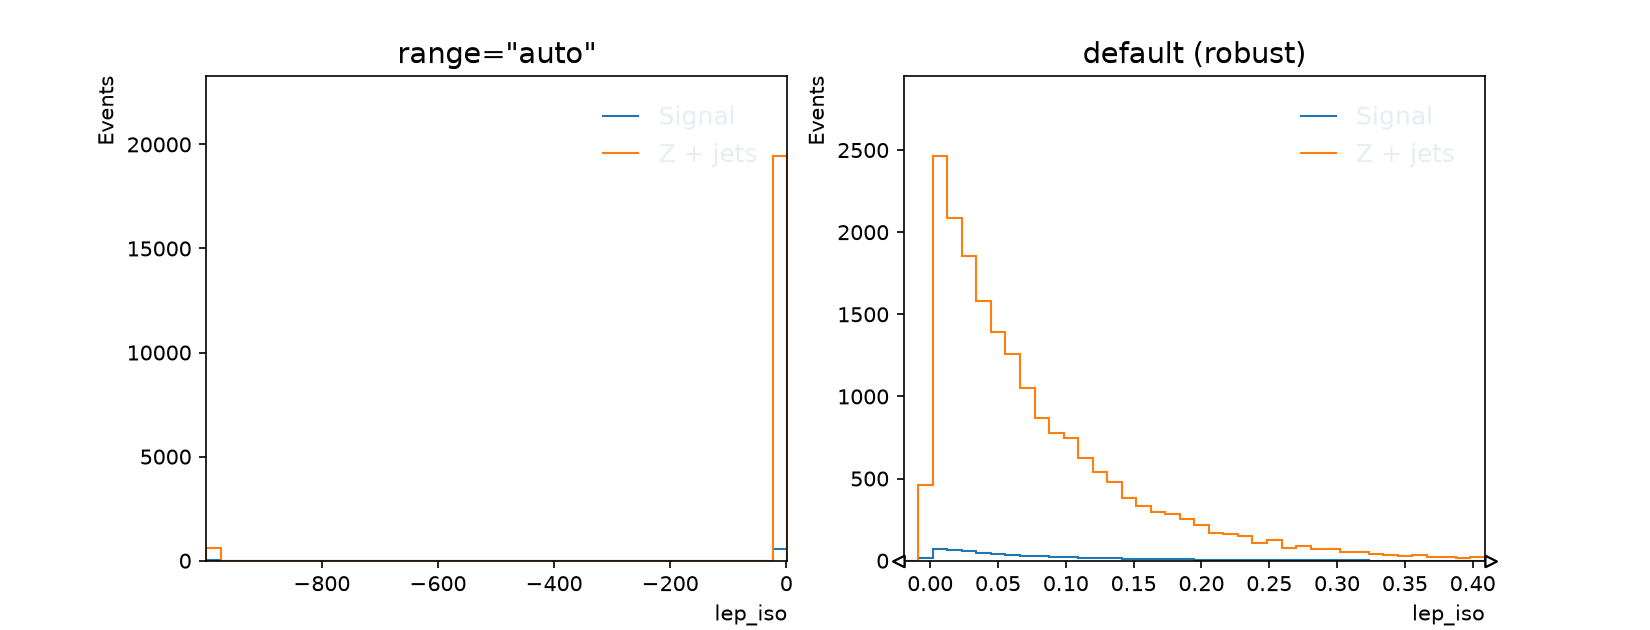
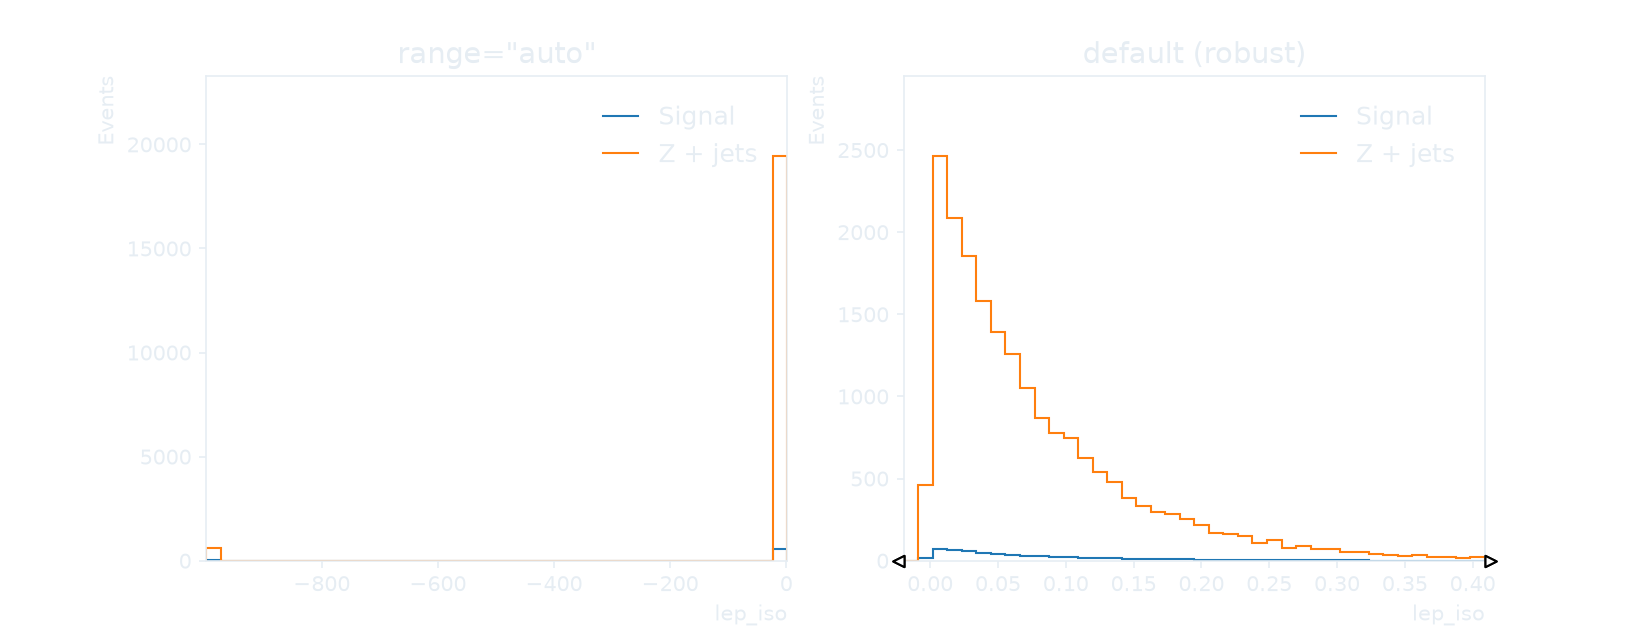
Fixes

diff --git a/tests/test_api.py b/tests/test_api.py
@@ -324,12 +324,12 @@ class TestPlot:
         kwargs: dict[str, Any] = {"observed": observed, "bins": (20, 0, 200), "ratio": True}
         with rf.dark_theme():
             dark = rf.plot(mc, "MET", style="ATLAS", stack=True, **kwargs)
-            classic = rf.plot(mc, "MET", style="classic", **kwargs)  # sets savefig.facecolor
         ink = to_rgba(rf.plotting.DARK_THEME["text.color"])
         assert self._marker_colors(dark) == {ink}
         assert dark.fig.get_facecolor()[3] == 0.0  # transparent despite ATLAS's white
         assert to_rgba(dark.ax.xaxis.label.get_color()) == ink
-        (saved,) = classic.save(tmp_path / "classic.png")
+        with plt.rc_context({"savefig.facecolor": "white"}):  # global state at save time
+            (saved,) = dark.save(tmp_path / "dark.png")
         assert plt.imread(saved)[0, :, 3].max() == 0.0  # the top row is background only
         light = rf.plot(mc, "MET", style="ATLAS", stack=True, **kwargs)
         assert self._marker_colors(light) == {to_rgba("black")}

diff --git a/tests/test_gallery.py b/tests/test_gallery.py
@@ -21,10 +21,12 @@ import contextlib
 import importlib.util
 import re
 import sys
+from collections.abc import Iterator
 from pathlib import Path
 from types import ModuleType
 from typing import Any
 
+import matplotlib.pyplot as plt
 import pytest
 from matplotlib.figure import Figure
 
@@ -57,7 +59,16 @@ def load_gallery(name: str = "rootfig_gallery") -> ModuleType:
 gallery = load_gallery()
 EXAMPLES = list(gallery.EXAMPLES)
 SAVEFIG = {"dpi": 150}  # as Plot.save: constrained layout, no cropping
-THEMES = {"": contextlib.nullcontext, "-dark": rf.dark_theme}  # baseline suffix -> context
+
+
+@contextlib.contextmanager
+def dark() -> Iterator[None]:
+    """``rf.dark_theme()``, plus its colours for figures an example makes itself for ``ax=``."""
+    with plt.style.context(rf.plotting.DARK_THEME), rf.dark_theme():
+        yield
+
+
+THEMES = {"": contextlib.nullcontext, "-dark": dark}  # baseline suffix -> context
 
 
 @pytest.fixture(scope="module")

diff --git a/src/rootfig/plotting/result.py b/src/rootfig/plotting/result.py
@@ -102,8 +102,14 @@ class Plot:
             Forwarded to :meth:`matplotlib.figure.Figure.savefig`. Figures made
             by rootfig use constrained layout and are saved at exactly their
             ``figsize``. For figures drawn into user axes without a layout
-            engine, ``bbox_inches="tight"`` is used unless given.
+            engine, ``bbox_inches="tight"`` is used unless given. The background
+            is the figure's own (``facecolor="auto"``) unless given: saving runs
+            after the style has been undone, so the global ``savefig.facecolor``
+            would otherwise paint over it (a :func:`~rootfig.dark_theme` figure
+            would lose its transparency).
         """
+        kwargs.setdefault("facecolor", "auto")
+        kwargs.setdefault("edgecolor", "auto")
         if self.fig.get_layout_engine() is None:
             kwargs.setdefault("bbox_inches", "tight")
             kwargs.setdefault("pad_inches", 0.04)

diff --git a/src/rootfig/plotting/style.py b/src/rootfig/plotting/style.py
@@ -141,9 +141,9 @@ def dark_theme() -> Iterator[None]:
 
     :data:`DARK_THEME` is applied after the style sheet, so it also holds for
     experiment styles that fix a white background (ATLAS, LHCb, ALICE, DUNE);
-    ``Style.rc`` still wins. The background is transparent, so one image suits
-    any dark page; saving keeps it so while ``savefig.facecolor`` is ``"auto"``
-    (matplotlib's default), which takes the figure's own colour.
+    ``Style.rc`` still wins. The background is transparent, and
+    :meth:`Plot.save <rootfig.Plot.save>` keeps it so, so one image suits any
+    dark page.
 
     Axes passed with ``ax=`` keep the look they were created with; create them
     under the same colours, ``plt.style.context(rootfig.plotting.DARK_THEME)``.

diff --git a/docs/plotting.md b/docs/plotting.md
@@ -185,7 +185,8 @@ range avoids range inference.
   a sentinel region. The right segment is `Plot.ax_right`
   (`Plot.ratio_ax_right`). Not available together with `ax=` or `flow="show"`.
 
-  ![Broken x axis with a ratio panel](images/gallery/xbreak_ratio.png){ width="60%" }
+  ![Broken x axis with a ratio panel](images/gallery/xbreak_ratio.png#only-light){ width="60%" }
+  ![Broken x axis with a ratio panel](images/gallery/xbreak_ratio-dark.png#only-dark){ width="60%" }
 - `flow`: how under/overflow is shown (this is where entries outside an
   inferred [range](#binning-and-range) end up), `"hint"` (small arrows, default),
   `"show"` (extra bins labelled `<low` / `>high`, added on a side as soon as any

diff --git a/docs/index.md b/docs/index.md
@@ -14,7 +14,8 @@ draws with mplhep, and adds the glue those libraries leave to you: predictable
 per-event/per-object selection semantics, weights, shared binning across
 samples, normalisation, ratio panels and good defaults.
 
-![Stacked simulation with data and a ratio panel](images/gallery/stack_data.png){ width="60%" }
+![Stacked simulation with data and a ratio panel](images/gallery/stack_data.png#only-light){ width="60%" }
+![Stacked simulation with data and a ratio panel](images/gallery/stack_data-dark.png#only-dark){ width="60%" }
 
 - [Quick start](quickstart.md)
 - [Gallery](gallery.md): every feature as a figure next to its code
